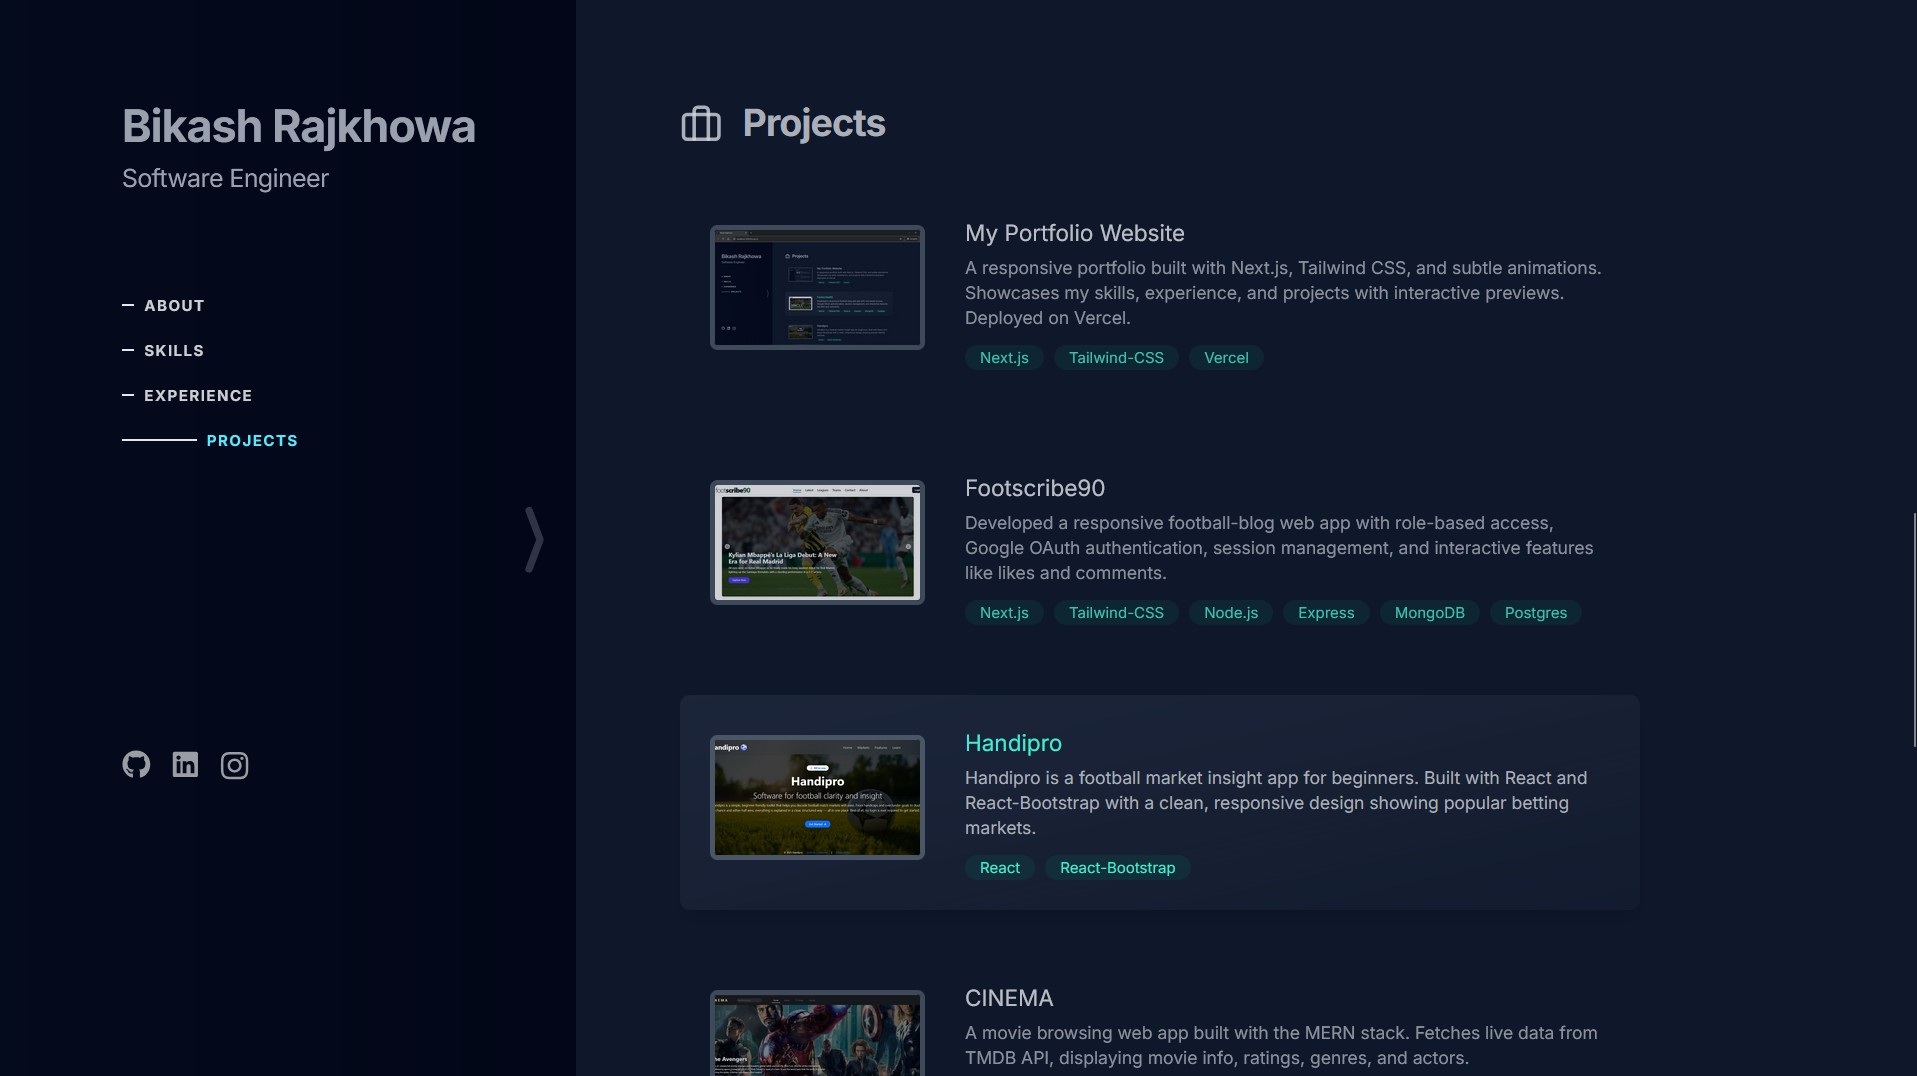
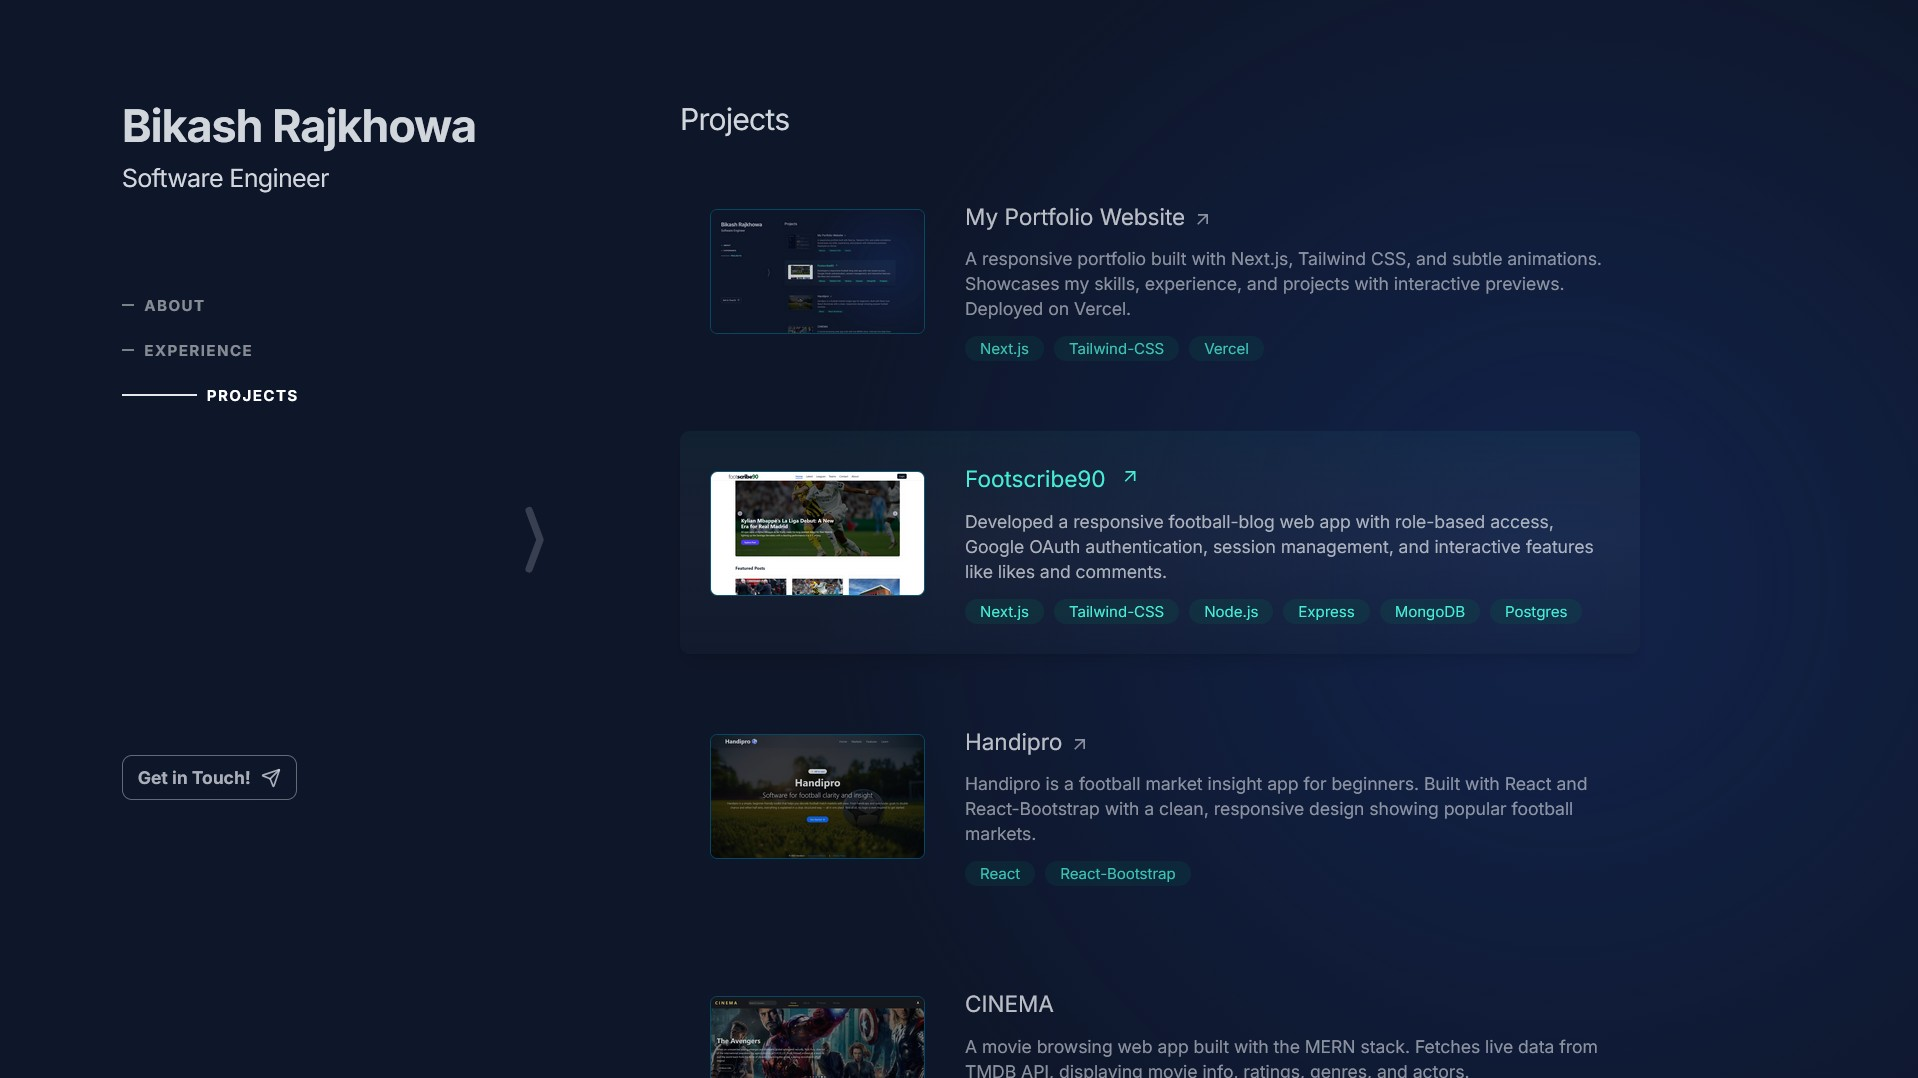
feat: :sparkles: Added cursor-glow effect on mouse pointer. Improved UX. Updated screenshots

diff --git a/app/page.jsx b/app/page.jsx
@@ -2,6 +2,8 @@
 
 import { useState } from "react";
 
+import { motion } from "framer-motion";
+
 import Hero from "@/components/Hero";
 import About from "@/components/About";
 import Skills from "@/components/Skills";
@@ -14,33 +16,42 @@ import Modal from "@/components/Modal";
 export default function Home() {
   const [slideScreen, setSlideScreen] = useState(false);
 
-  const styles = `flex flex-col justify-center items-center bg-slate-900 text-gray-300/80 px-4 md:px-8 lg:px-16`;
+  const styles = `flex flex-col justify-center items-center text-gray-300/80 px-4 md:px-8 lg:px-16`;
 
   return (
     <>
       <Hero slideScreen={slideScreen} setSlideScreen={setSlideScreen} />
       <Modal />
-      <main className={styles}>
-        <section id="discover" className="min-h-screen flex flex-col xl:pl-80">
-          <div className="fixed z-100 top-0 left-0 w-full backdrop-blur-lg px-2 py-3 xl:hidden">
-            <div className="flex justify-between items-center text-lg font-bold flex gap-3 pr-4">
-              <div
-                className="flex gap-0.5"
-                onClick={() => setSlideScreen(!slideScreen)}
-              >
-                <ChevronRight className="mt-0.5 " /> Bikash | Portfolio
-              </div>
+      <motion.div
+        initial={{ opacity: 0, y: 20 }}
+        animate={slideScreen ? { opacity: 1, y: 0 } : { opacity: 0, y: 20 }}
+        transition={{ duration: 0.3, delay: 0.2 }}
+      >
+        <main className={styles}>
+          <section
+            id="discover"
+            className="min-h-screen flex flex-col xl:pl-80"
+          >
+            <div className="fixed z-100 top-0 left-0 w-full backdrop-blur-lg px-2 py-3 xl:hidden">
+              <div className="flex justify-between items-center text-lg font-bold flex gap-3 pr-4">
+                <div
+                  className="flex gap-0.5"
+                  onClick={() => setSlideScreen(!slideScreen)}
+                >
+                  <ChevronRight className="mt-0.5 " /> Bikash | Portfolio
+                </div>
 
-              <a aria-label="Scroll to footer" href="#footer">
-                <MessagesSquare size={23} />
-              </a>
+                <a aria-label="Scroll to footer" href="#footer">
+                  <MessagesSquare size={23} />
+                </a>
+              </div>
             </div>
-          </div>
-          <About />
-          <Experience />
-          <Projects />
-        </section>
-      </main>
+            <About />
+            <Experience />
+            <Projects />
+          </section>
+        </main>
+      </motion.div>
       <footer id="footer" className={styles}>
         <Footer />
       </footer>

diff --git a/components/Hero.jsx b/components/Hero.jsx
@@ -15,7 +15,7 @@ function Hero({ slideScreen, setSlideScreen }) {
       className={`fixed inset-0 ${bgColor} flex flex-col justify-center text-gray-400
         p-4 items-center z-101 transition-translate duration-400 ease-in-out ${
           slideScreen
-            ? "-translate-x-full xl:-translate-x-[70vw]"
+            ? "-translate-x-full xl:-translate-x-[70vw] bg-none"
             : "tanslate-x-0"
         }`}
     >
@@ -58,7 +58,7 @@ function Hero({ slideScreen, setSlideScreen }) {
                 aria-label="Discover portfolio button"
                 onClick={() => setSlideScreen(!slideScreen)}
                 variant="outline"
-                className="bg-transparent rounded-lg text-md p-4 md:p-5 font-semibold "
+                className="bg-transparent rounded-lg text-md p-4 md:p-5 font-semibold hover:scale(50)"
               >
                 Discover
               </Button>
@@ -71,7 +71,7 @@ function Hero({ slideScreen, setSlideScreen }) {
         <IconChevronCompactLeft
           size="70"
           onClick={() => setSlideScreen(!slideScreen)}
-          className={`hidden md:inline absolute right-0 hover:scale-125 transition-all duration-300 ease-out ${
+          className={`hidden md:inline absolute right-0 hover:scale-125 hover:opacity-50 transition-all duration-300 ease-out ${
             !slideScreen ? "opacity-30" : "opacity-0"
           }`}
         />
@@ -80,7 +80,7 @@ function Hero({ slideScreen, setSlideScreen }) {
         <IconChevronCompactRight
           size="70"
           onClick={() => setSlideScreen(!slideScreen)}
-          className={`hidden md:inline absolute right-0 hover:scale-125 transition-all duration-300 ease-out ${
+          className={`hidden md:inline absolute right-0 hover:scale-125 hover:opacity-50 transition-all duration-300 ease-out ${
             slideScreen ? "opacity-30" : "opacity-0"
           }`}
         />

diff --git a/components/Sidebar.jsx b/components/Sidebar.jsx
@@ -18,14 +18,14 @@ function Sidebar() {
     <motion.div
       initial={{ opacity: 0, y: 20 }}
       animate={{ opacity: 1, y: 0 }}
-      transition={{ duration: 0.5, delay: 0.5 }}
+      transition={{ duration: 0.3, delay: 0.2 }}
       className="absolute top-16 right-16 hidden lg:flex flex-col items-start justify-between p-4 gap-20"
     >
       <div className="space-y-2">
-        <h1 className="text-4xl font-semibold tracking-tight">
+        <h1 className="text-4xl font-semibold tracking-tight text-gray-300">
           Bikash Rajkhowa
         </h1>
-        <h2 className="text-xl font-medium tracking-tight">
+        <h2 className="text-xl font-medium tracking-tight text-gray-300">
           Software Engineer
         </h2>
       </div>
@@ -40,7 +40,9 @@ function Sidebar() {
                 initial={{ width: 0 }}
                 animate={{ width: isActive ? 60 : 10 }}
                 transition={{ duration: 0.08 }}
-                className={`h-0.5 bg-gray-200`}
+                className={`h-0.5 bg-gray-200 ${
+                  isActive ? "opacity-100" : "opacity-50"
+                }`}
               />
 
               <a
@@ -48,7 +50,7 @@ function Sidebar() {
                 href={link.href}
                 onClick={() => setSelectedLink(link.href)}
                 className={`text-xs font-bold transition-all duration-200 hover:text-cyan-300 tracking-widest ${
-                  isActive ? "text-cyan-300" : "text-white/80"
+                  isActive ? "text-white" : "text-white/50"
                 }`}
               >
                 {link.name}

diff --git a/context/AppContext.jsx b/context/AppContext.jsx
@@ -1,6 +1,6 @@
 "use client";
 
-import React, { createContext, useContext, useState } from "react";
+import React, { createContext, useContext, useState, useEffect } from "react";
 
 const AppContext = createContext();
 
@@ -17,6 +17,30 @@ export const ContextProvider = ({ children }) => {
     setScreenshots([]);
     setIsOpenModal(false);
   };
+
+  // cursor-glow listener
+  useEffect(() => {
+    const area = document.documentElement;
+
+    const hasPointer = window.matchMedia("(pointer: fine)").matches;
+
+    if (!hasPointer) {
+      area.style.setProperty("--x", `${window.innerWidth * 0.8}px`);
+      area.style.setProperty("--y", `${window.innerHeight * 0.2}px`);
+      return;
+    }
+
+    const handleMove = (e) => {
+      area.style.setProperty("--x", `${e.clientX}px`);
+      area.style.setProperty("--y", `${e.clientY}px`);
+    };
+
+    window.addEventListener("mousemove", handleMove);
+
+    return () => {
+      window.removeEventListener("mousemove", handleMove);
+    };
+  }, []);
 
   return (
     <AppContext.Provider

diff --git a/components/Projects.jsx b/components/Projects.jsx
@@ -12,7 +12,11 @@ function Projects() {
       title: "My Portfolio Website",
       img: "/projects/portfolio/2.jpg",
       link: "https://bikashrajkhowa.vercel.app",
-      screenshots: ["/projects/portfolio/1.jpg", "/projects/portfolio/2.jpg"],
+      screenshots: [
+        "/projects/portfolio/1.jpg",
+        "/projects/portfolio/2.jpg",
+        "/projects/portfolio/3.jpg",
+      ],
       alt: "My Portfolio Website preview",
       desc: "A responsive portfolio built with Next.js, Tailwind CSS, and subtle animations. Showcases my skills, experience, and projects with interactive previews. Deployed on Vercel.",
       tools: [
@@ -97,7 +101,7 @@ function Projects() {
 
   return (
     <div id="projects" className="py-20 min-h-95 lg:h-auto">
-      <h1 className="text-2xl lg:text-3xl font-bold tracking-tight mb-6">
+      <h1 className="text-2xl lg:text-2xl font-semi-bold tracking-tight mb-6 text-gray-300">
         Projects
       </h1>
 

diff --git a/app/globals.css b/app/globals.css
@@ -127,10 +127,32 @@ body {
   height: 100%;
   margin: 0;
   overflow: hidden;
+  background: rgb(14, 22, 41);
 }
 
 body {
   overflow-y: auto;
   -webkit-overflow-scrolling: touch;
   overscroll-behavior: none;
+}
+
+body {
+  position: relative;
+  z-index: 0;
+}
+
+body::before {
+  content: "";
+  position: fixed;
+  inset: 0;
+  z-index: -1;
+  pointer-events: none;
+
+  background: radial-gradient(
+    circle at var(--x, 50%) var(--y, 50%),
+    rgba(18, 50, 130, 0.342),
+    transparent 45%
+  );
+
+  transition: background 0.05s linear;
 }

diff --git a/components/About.jsx b/components/About.jsx
@@ -5,7 +5,7 @@ import Skills from "./Skills";
 function About() {
   return (
     <div id="about" className="pt-20 min-h-95 lg:h-auto max-w-3xl">
-      <h1 className="text-2xl lg:text-3xl font-bold mb-6 tracking-tight">
+      <h1 className="text-2xl lg:text-2xl font-semi-bold tracking-tight mb-6 text-gray-300">
         About
       </h1>
       <p className="mb-4 text-gray-400/90">

diff --git a/components/Experience.jsx b/components/Experience.jsx
@@ -73,7 +73,7 @@ function Experience() {
 
   return (
     <div id="experience" className="pt-20 min-h-95 lg:h-auto">
-      <h1 className="text-2xl lg:text-3xl font-bold mb-6 tracking-tight">
+      <h1 className="text-2xl lg:text-2xl font-semi-bold tracking-tight mb-6 text-gray-300">
         Experience
       </h1>
 

diff --git a/components/Footer.jsx b/components/Footer.jsx
@@ -137,7 +137,7 @@ function Footer() {
 
           {/* Contact Form */}
 
-          <div className="bg-slate-800 p-8 rounded-xl shadow-lg">
+          <div className="bg-slate-800/50 p-8 rounded-xl shadow-lg">
             {msgSent ? (
               <MsgSentComp resend={() => setMsgSent(false)} />
             ) : (

diff --git a/app/layout.jsx b/app/layout.jsx
@@ -25,7 +25,7 @@ export const viewport = {
     },
     {
       media: "(prefers-color-scheme: dark)",
-      color: "rgba(15, 23, 42, 0.7)",
+      color: "rgba(15, 23, 42, 0.45)",
     },
   ],
 };
